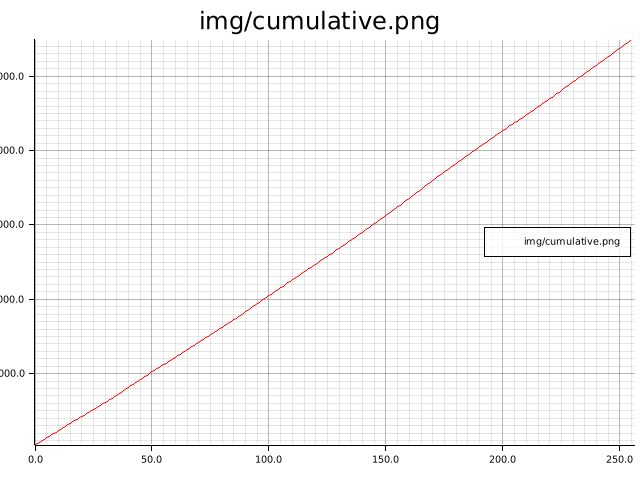
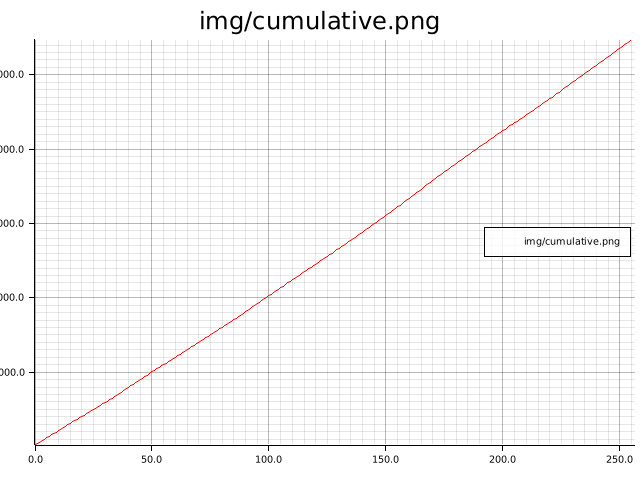
cumulative: do not count the first value twice
The first update set the sum to the value and then added it again, and
eviction removed it only once, so every later output carried the first
value: a window of 1 over a constant 5 gave 10. Found by the pipeline's
check that outputs stay in their declared domain.

Changed region(s): [[0.0, 0.0938, 1.0, 0.9375]]

diff --git a/src/sliding_windows/cumulative.rs b/src/sliding_windows/cumulative.rs
@@ -48,19 +48,15 @@ where
         let Some(val) = self.view.last() else { return };
         debug_assert!(val.is_finite(), "value must be finite");
 
-        if self.out.is_none() {
-            self.out = Some(val);
-        }
-
+        let out = self.out.get_or_insert(T::zero());
         if self.q_vals.len() >= self.window_len.get() {
-            let old = self.q_vals.pop_front().unwrap();
-            let out = self.out.as_mut().expect("Is some at this point");
+            let old = self.q_vals.pop_front().expect("the window is full");
             *out = *out - old;
         }
         self.q_vals.push_back(val);
-        let out = self.out.as_mut().expect("Is some at this point");
         *out = *out + val;
         debug_assert!(out.is_finite(), "value must be finite");
+        debug_assert!(self.q_vals.len() <= self.window_len.get());
     }
 
     #[inline(always)]
@@ -88,5 +84,19 @@ mod tests {
         }
         let filename = "img/cumulative.png";
         plot_values(out, filename).unwrap();
+    }
+
+    /// The output is the sum of the last `window_len` values; the first
+    /// value used to be counted twice, forever.
+    #[test]
+    fn cumulative_sums_the_window() {
+        let mut cum = Cumulative::new(Echo::new(), NonZeroUsize::new(2).unwrap());
+        assert_eq!(cum.last(), None);
+        let mut sums = Vec::new();
+        for v in [1.0, 2.0, 4.0, 8.0] {
+            cum.update(v);
+            sums.push(cum.last().unwrap());
+        }
+        assert_eq!(sums, [1.0, 3.0, 6.0, 12.0]);
     }
 }
